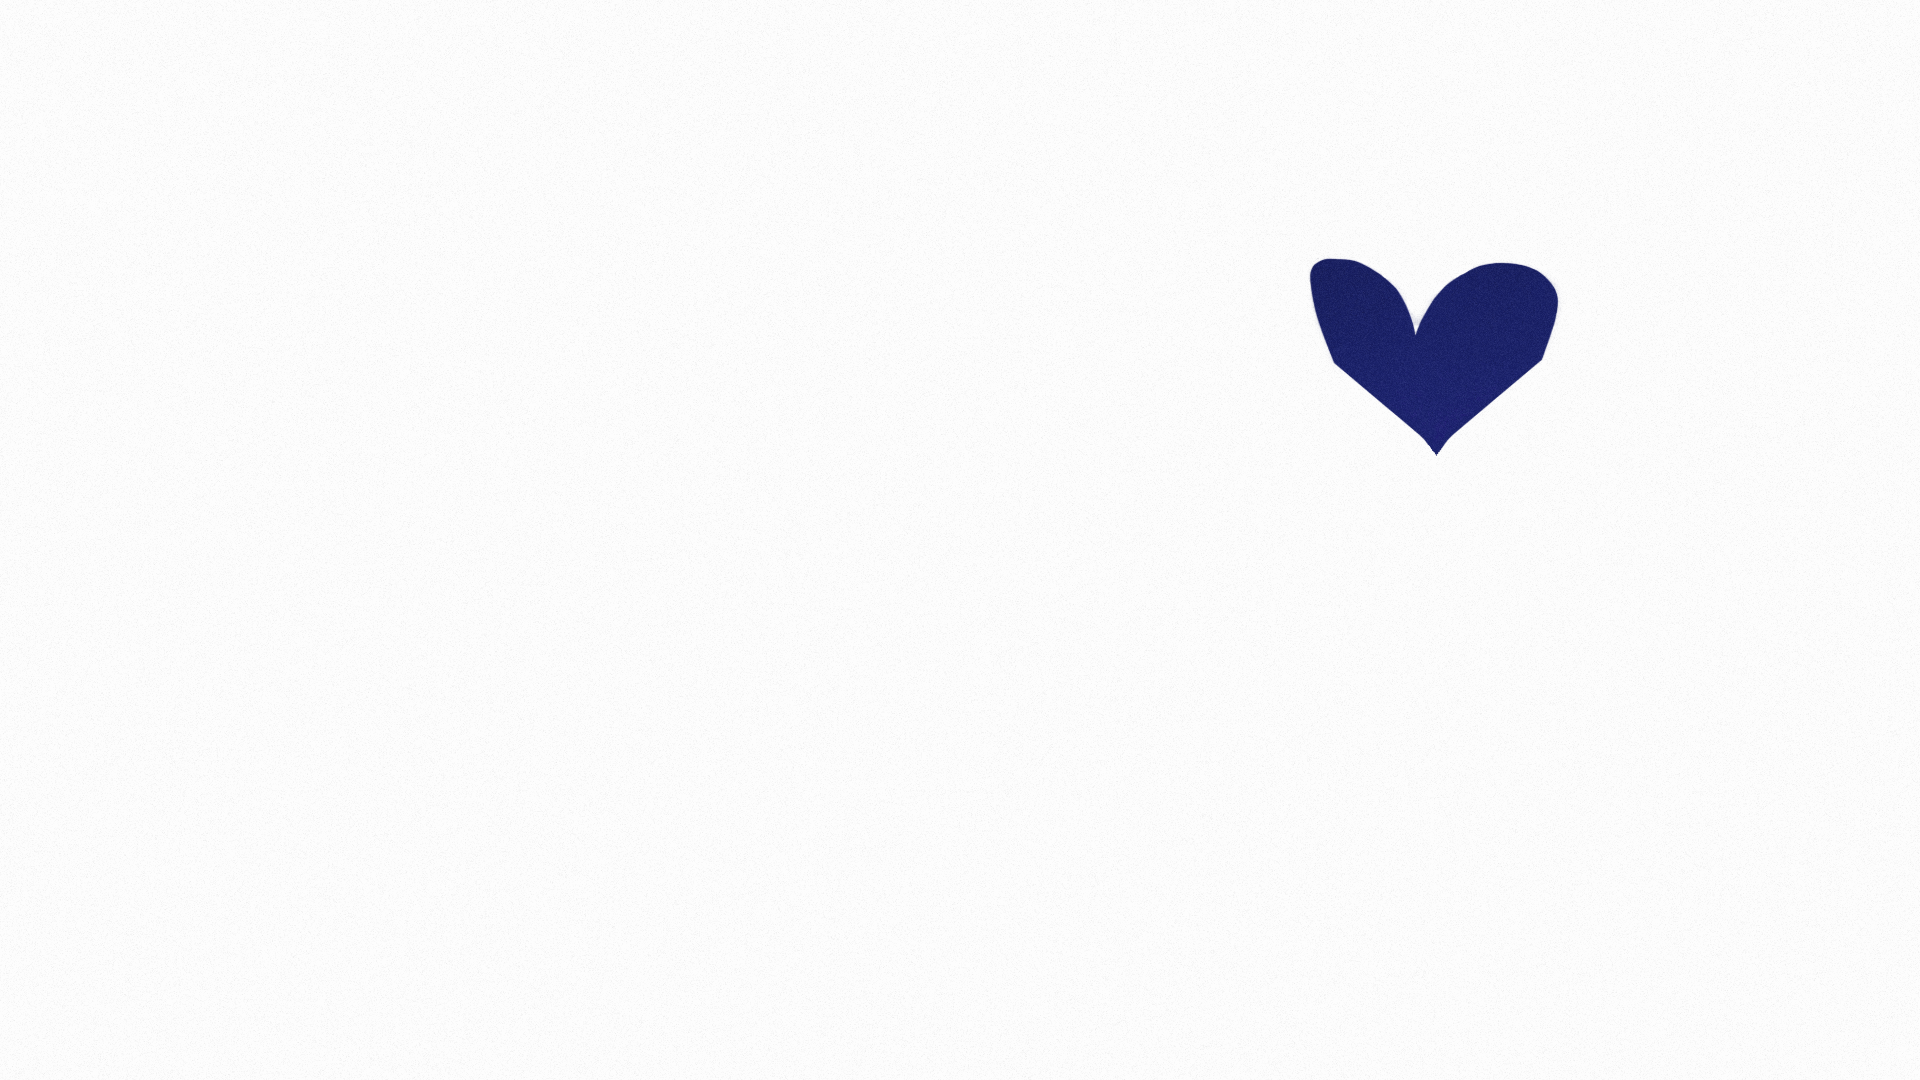
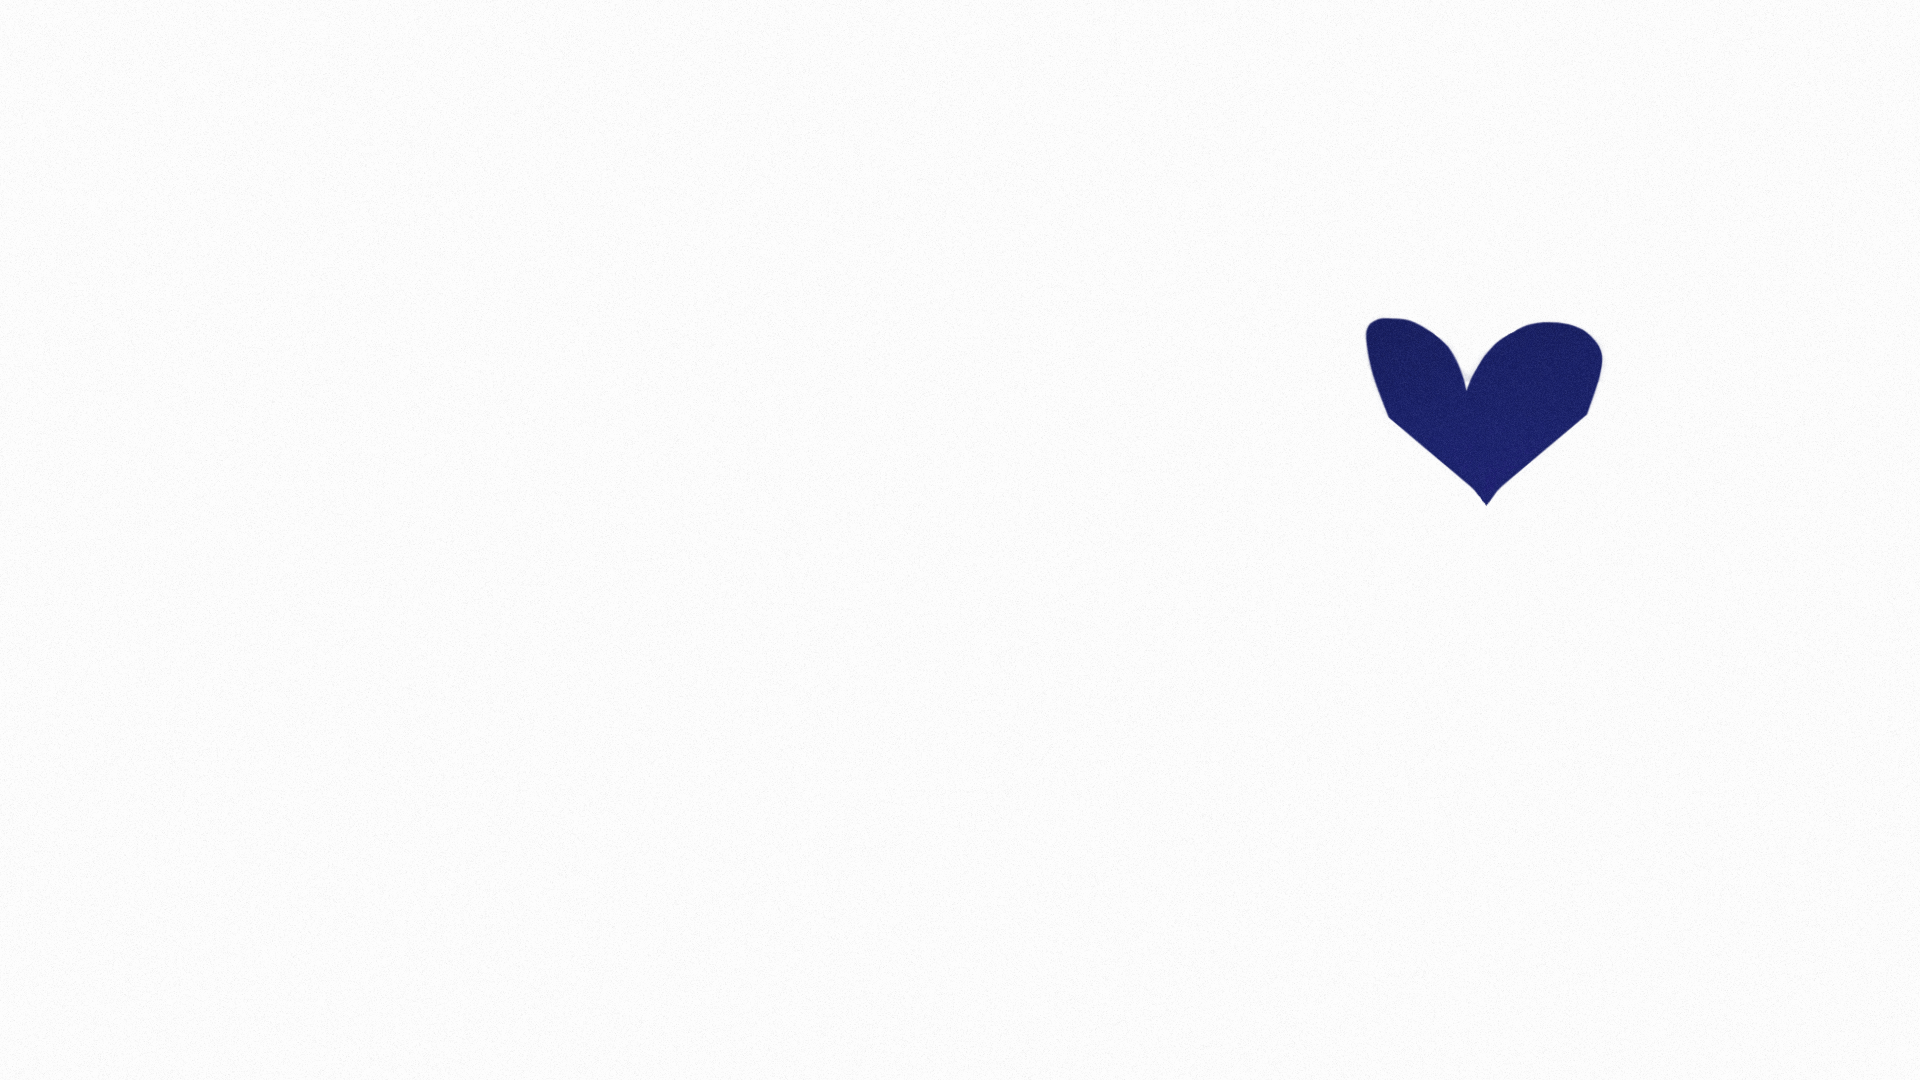
hero art added

Changed region(s): [[0.6562, 0.2444, 0.8438, 0.4583]]

diff --git a/src/styles/style.css b/src/styles/style.css
@@ -384,6 +384,7 @@ footer .footer-div#second-div .footer-copyright {
 }
 
 #hero-section {
+  position: relative;
   height: 100vh;
   overflow: hidden;
   padding-top: 50px;
@@ -392,6 +393,7 @@ footer .footer-div#second-div .footer-copyright {
   content: "";
   position: absolute;
   bottom: 35px;
+  z-index: 999;
   height: 3px;
   width: calc(5vw + 90px);
   border-radius: 999px;
@@ -406,15 +408,31 @@ footer .footer-div#second-div .footer-copyright {
     bottom: 43px;
   }
 }
+#hero-section::after {
+  content: "";
+  position: absolute;
+  width: 100%;
+  height: 150px;
+  background: linear-gradient(transparent, #fdfdfd);
+  bottom: 0;
+}
 #hero-section canvas {
   width: 100%;
   height: 100%;
   background-image: url("../assets/visuals/hero_art.png");
-  background-position: 0 -100px;
+  background-size: cover;
+  background-position: right -100px;
 }
 @media only screen and (max-width: 1024px) {
   #hero-section canvas {
-    background-position: center right;
+    background-position: calc(100% + 200px) -100px;
+  }
+}
+@media only screen and (max-width: 480px) {
+  #hero-section canvas {
+    background-image: url("../assets/visuals/hero_art_mobile.png");
+    background-size: contain;
+    background-position: center center;
   }
 }
 

diff --git a/src/components/sections/1Hero/_Hero.scss b/src/components/sections/1Hero/_Hero.scss
@@ -1,6 +1,7 @@
 @use "../../../styles/" as *;
 
 #hero-section {
+  position: relative;
   height: 100vh;
   overflow: hidden;
   padding-top: 50px; //sphere position
@@ -10,6 +11,7 @@
     content: "";
     position: absolute;
     bottom: 35px;
+    z-index: 999;
 
     height: 3px;
     width: calc(5vw + 90px);
@@ -28,16 +30,30 @@
     }
   }
 
+  &::after {
+    content: "";
+    position: absolute;
+    width: 100%;
+    height: 150px;
+    background: linear-gradient(transparent, $color-background);
+    bottom: 0;
+  }
+
   & canvas {
     width: 100%;
     height: 100%;
     background-image: url("../assets/visuals/hero_art.png");
-    //dev
-    background-position: 0 -100px;
+    background-size: cover;
+    background-position: right -100px;
 
     @include tablet {
-      //dev
-      background-position: center right;
+      background-position: calc(100% + 200px) -100px;
+    }
+
+    @include mobile {
+      background-image: url("../assets/visuals/hero_art_mobile.png");
+      background-size: contain;
+      background-position: center center;
     }
 
     //add gradient at the bottom for smooth transition
